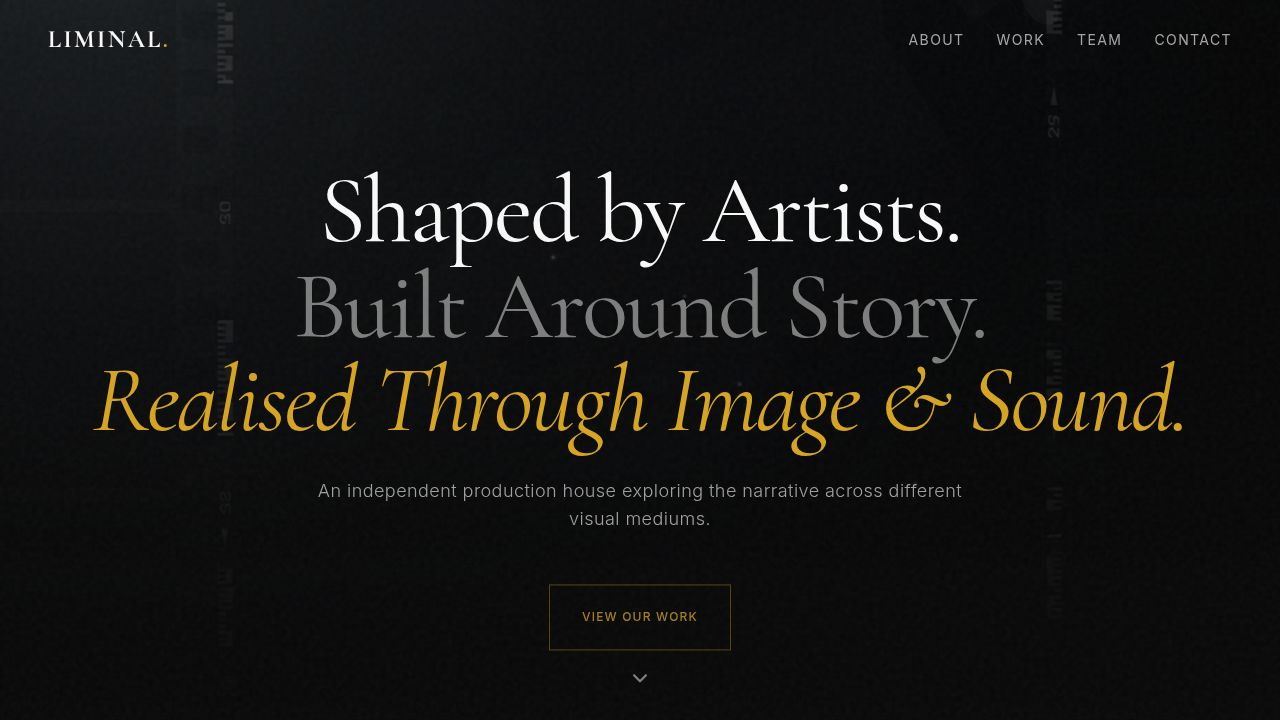
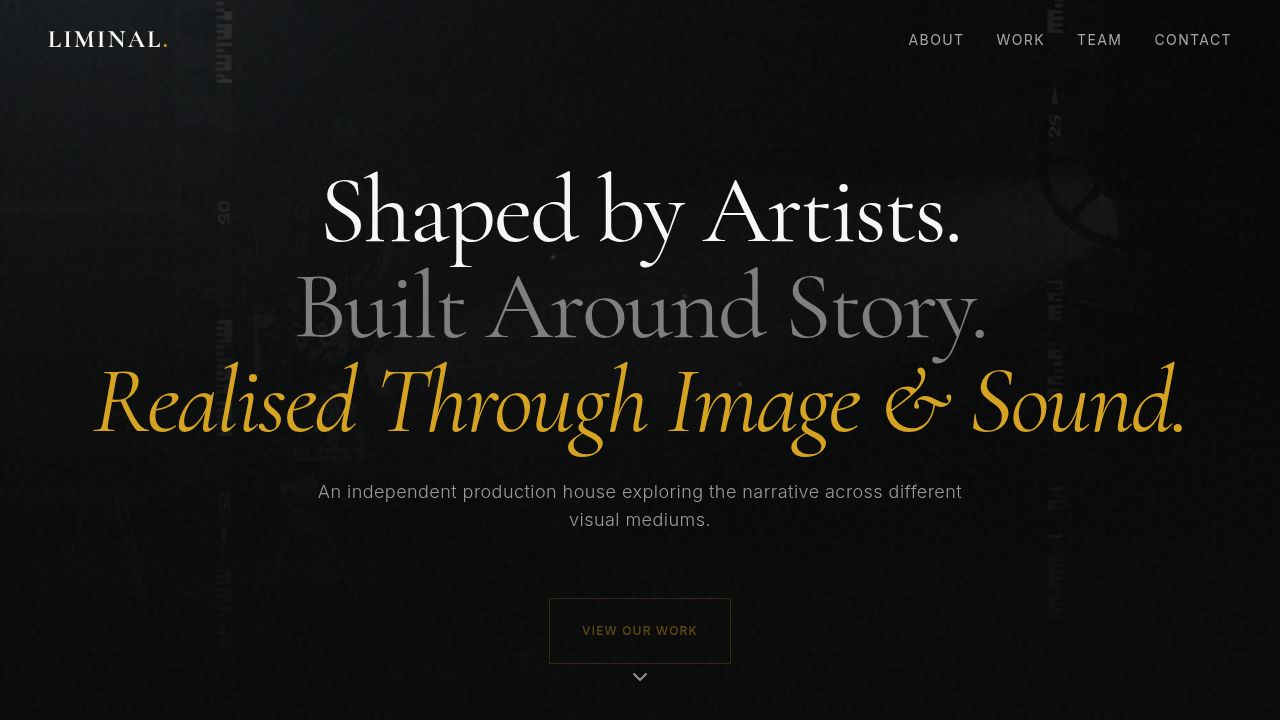
Update background to a film noir cinematic aesthetic
Change background image import in home.tsx to use the new film-noir-bg.png asset.

Replit-Commit-Author: Agent
Replit-Commit-Session-Id: ff2ce0f0-7cad-4375-b4a2-53d2b1b7dc89
Replit-Commit-Checkpoint-Type: full_checkpoint
Replit-Commit-Event-Id: 52893b78-26fc-4180-97b0-7c45f22cbb79
Replit-Commit-Screenshot-Url: https://storage.googleapis.com/screenshot-production-us-central1/48974fb6-187f-4aca-91dc-7ac49f2044b8/ff2ce0f0-7cad-4375-b4a2-53d2b1b7dc89/WoaIBw9
Replit-Helium-Checkpoint-Created: true

diff --git a/client/src/pages/home.tsx b/client/src/pages/home.tsx
@@ -4,7 +4,7 @@ import { About } from "@/components/About";
 import { Portfolio } from "@/components/Portfolio";
 import { Team } from "@/components/Team";
 import { Contact } from "@/components/Contact";
-import filmmakingBg from "@/assets/images/cinema-production-bg.png";
+import filmmakingBg from "@/assets/images/film-noir-bg.png";
 
 export default function Home() {
   return (